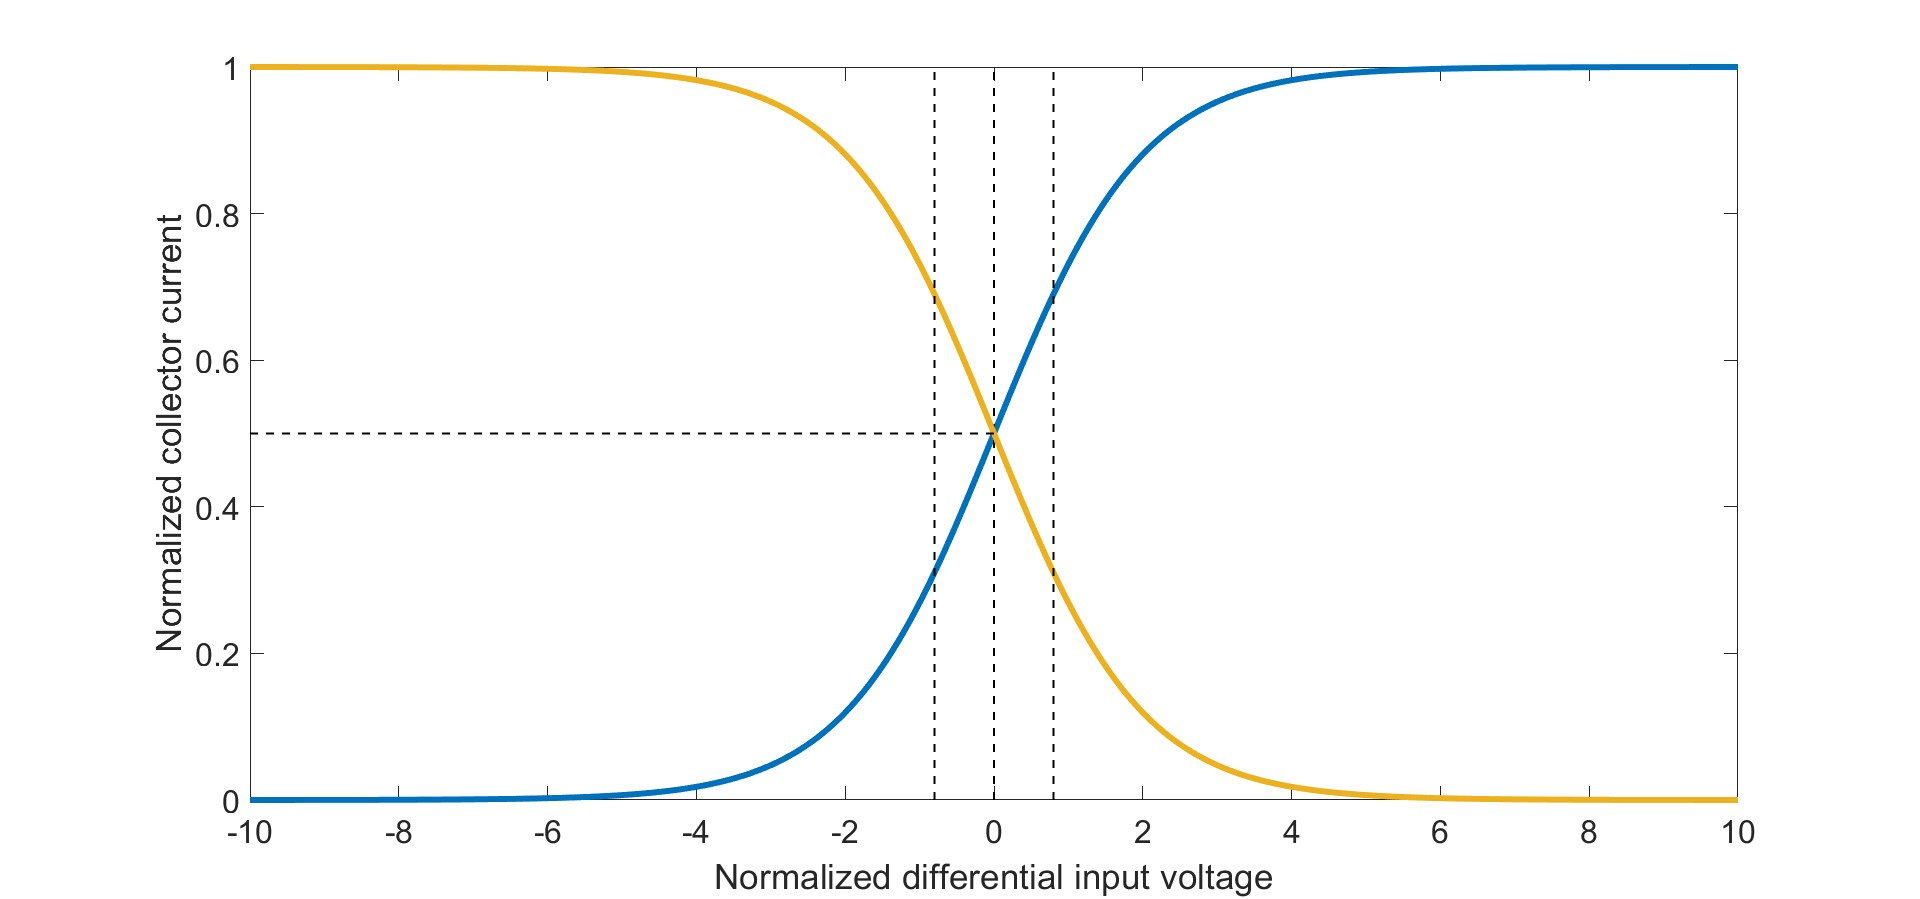
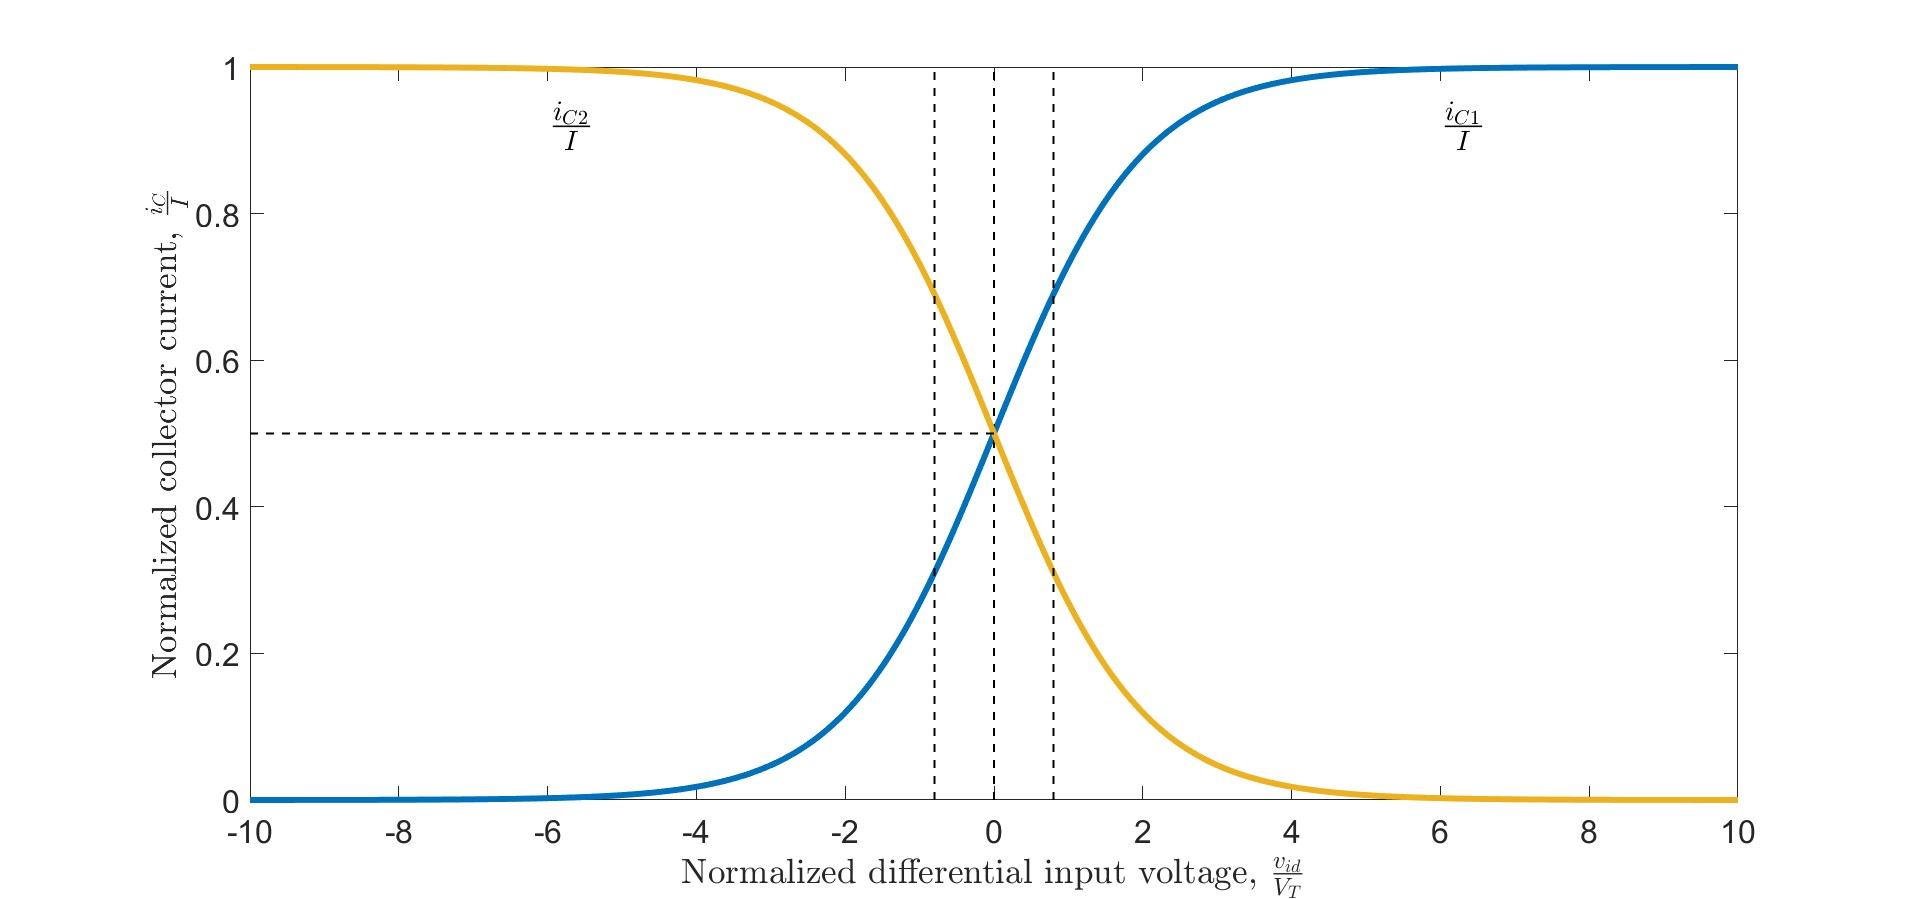
revise normalized collector fig

diff --git a/figures/system_design/normalized_collector_fig_script.m b/figures/system_design/normalized_collector_fig_script.m
@@ -19,7 +19,10 @@ hold on
 plot([-0.8 -0.8],get(gca, 'ylim'),'k--','LineWidth',1)
 hold on
 plot([-10 0],[0.5 0.5],'--k','LineWidth',1);
-xlabel('Normalized differential input voltage','FontSize',14);
-ylabel('Normalized collector current','FontSize',14);
+
+xlabel('Normalized differential input voltage, $\frac{v_{id}}{V_T}$', 'Interpreter', 'latex','FontSize',14);
+ylabel('Normalized collector current, $\frac{i_{C}}{I}$', 'Interpreter','latex','FontSize',14);
 set(gca,'FontSize',16);
+text(6,0.92,'$\frac{i_{C1}}{I}$','Interpreter','latex','FontSize',20)
+text(-6,0.92,'$\frac{i_{C2}}{I}$','Interpreter','latex','FontSize',20)
 hold on
